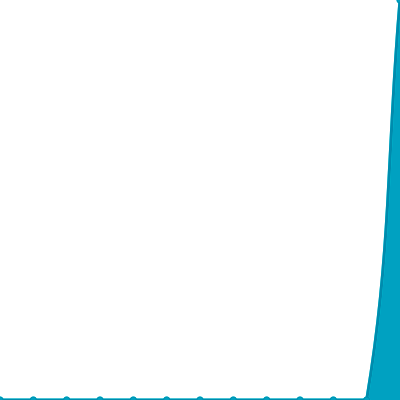
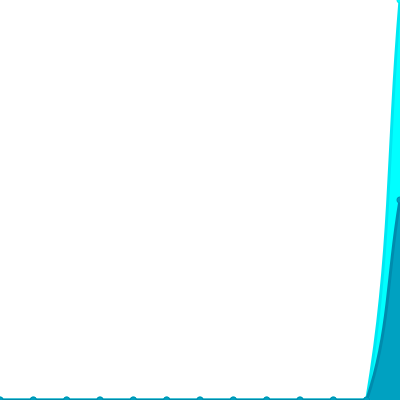
Update views

Changed region(s): [[0.9, 0.0, 1.0, 0.99]]

diff --git a/readme/827259573/year.md b/readme/827259573/year.md
@@ -23,10 +23,10 @@
 			<code>2024/7/1</code>
 		</td>
 		<td>
-			<code>1</code>
+			<code>2</code>
 		</td>
 		<td>
-			<code>1</code>
+			<code>4</code>
 		</td>
 	</tr>
 	<tr>
@@ -164,7 +164,7 @@
 </table>
 
 </details>
-<small><i>Last updated on 2024/7/27 12:59 AM UTC</i></small>
+<small><i>Last updated on 2024/7/27 6:16 AM UTC</i></small>
 
 ## ✂Copy and 📋 Paste
 ### SVG Badge

diff --git a/README.md b/README.md
@@ -357,7 +357,7 @@ The project created and maintained by [gayanvoice](https://github.com/gayanvoice
 	</tr>
 </table>
 
-<small><i>Last updated on 2024/7/27 1:01 AM UTC</i></small>
+<small><i>Last updated on 2024/7/27 6:18 AM UTC</i></small>
 
 ## ✂Copy and 📋 Paste
 ### Total Views Badge

diff --git a/readme/698130765/year.md b/readme/698130765/year.md
@@ -164,7 +164,7 @@
 </table>
 
 </details>
-<small><i>Last updated on 2024/7/27 12:58 AM UTC</i></small>
+<small><i>Last updated on 2024/7/27 6:16 AM UTC</i></small>
 
 ## ✂Copy and 📋 Paste
 ### SVG Badge

diff --git a/readme/815554607/year.md b/readme/815554607/year.md
@@ -164,7 +164,7 @@
 </table>
 
 </details>
-<small><i>Last updated on 2024/7/27 12:59 AM UTC</i></small>
+<small><i>Last updated on 2024/7/27 6:17 AM UTC</i></small>
 
 ## ✂Copy and 📋 Paste
 ### SVG Badge

diff --git a/readme/815561041/year.md b/readme/815561041/year.md
@@ -164,7 +164,7 @@
 </table>
 
 </details>
-<small><i>Last updated on 2024/7/27 12:59 AM UTC</i></small>
+<small><i>Last updated on 2024/7/27 6:17 AM UTC</i></small>
 
 ## ✂Copy and 📋 Paste
 ### SVG Badge

diff --git a/readme/816225463/year.md b/readme/816225463/year.md
@@ -164,7 +164,7 @@
 </table>
 
 </details>
-<small><i>Last updated on 2024/7/27 12:59 AM UTC</i></small>
+<small><i>Last updated on 2024/7/27 6:17 AM UTC</i></small>
 
 ## ✂Copy and 📋 Paste
 ### SVG Badge

diff --git a/readme/823512578/year.md b/readme/823512578/year.md
@@ -164,7 +164,7 @@
 </table>
 
 </details>
-<small><i>Last updated on 2024/7/27 12:59 AM UTC</i></small>
+<small><i>Last updated on 2024/7/27 6:16 AM UTC</i></small>
 
 ## ✂Copy and 📋 Paste
 ### SVG Badge

diff --git a/readme/825053052/year.md b/readme/825053052/year.md
@@ -164,7 +164,7 @@
 </table>
 
 </details>
-<small><i>Last updated on 2024/7/27 12:59 AM UTC</i></small>
+<small><i>Last updated on 2024/7/27 6:16 AM UTC</i></small>
 
 ## ✂Copy and 📋 Paste
 ### SVG Badge

diff --git a/readme/827272077/year.md b/readme/827272077/year.md
@@ -164,7 +164,7 @@
 </table>
 
 </details>
-<small><i>Last updated on 2024/7/27 12:59 AM UTC</i></small>
+<small><i>Last updated on 2024/7/27 6:16 AM UTC</i></small>
 
 ## ✂Copy and 📋 Paste
 ### SVG Badge

diff --git a/readme/827282764/year.md b/readme/827282764/year.md
@@ -164,7 +164,7 @@
 </table>
 
 </details>
-<small><i>Last updated on 2024/7/27 12:59 AM UTC</i></small>
+<small><i>Last updated on 2024/7/27 6:16 AM UTC</i></small>
 
 ## ✂Copy and 📋 Paste
 ### SVG Badge

diff --git a/readme/698104324/year.md b/readme/698104324/year.md
@@ -164,7 +164,7 @@
 </table>
 
 </details>
-<small><i>Last updated on 2024/7/27 1:00 AM UTC</i></small>
+<small><i>Last updated on 2024/7/27 6:18 AM UTC</i></small>
 
 ## ✂Copy and 📋 Paste
 ### SVG Badge

diff --git a/readme/698182249/year.md b/readme/698182249/year.md
@@ -164,7 +164,7 @@
 </table>
 
 </details>
-<small><i>Last updated on 2024/7/27 1:00 AM UTC</i></small>
+<small><i>Last updated on 2024/7/27 6:17 AM UTC</i></small>
 
 ## ✂Copy and 📋 Paste
 ### SVG Badge
